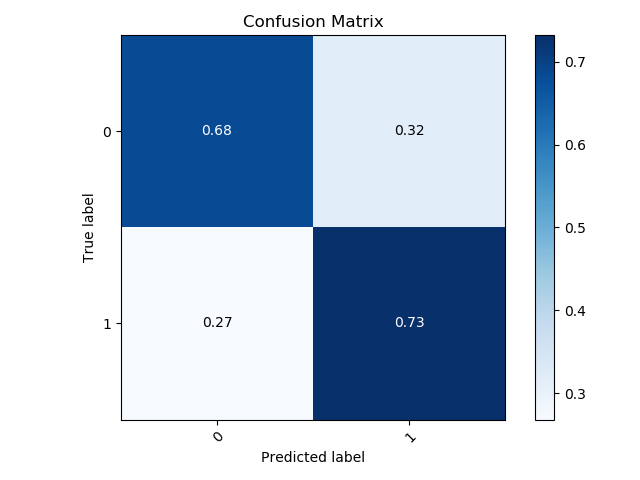
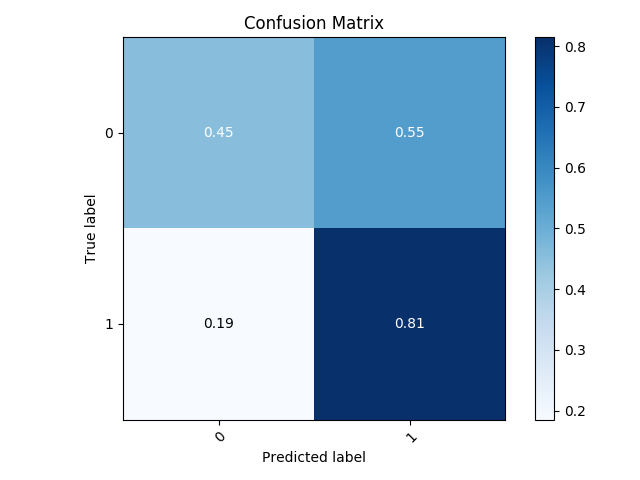
added SMOTE

diff --git a/code/classifier.py b/code/classifier.py
@@ -1,5 +1,6 @@
 print("Importing Modules...")
 
+from imblearn.over_sampling import SMOTE
 import pandas as pd
 # import csv
 import numpy as np
@@ -47,6 +48,8 @@ NoDeltas = ds.values[:,3:]
 y_NoDeltas = np.zeros(len(NoDeltas[:,0]),'i')
 NoDeltas = np.column_stack((NoDeltas,y_NoDeltas))
 
+
+
 print("Shuffling Data")
 np.random.shuffle(Deltas)
 np.random.shuffle(NoDeltas)
@@ -55,6 +58,9 @@ np.random.shuffle(NoDeltas)
 
 trainDeltas, testDeltas = Deltas[:int(len(Deltas) * .8),:], Deltas[int(len(Deltas) * .8):,:]
 trainNoDeltas, testNoDeltas = NoDeltas[:int(len(NoDeltas) * .8),:], NoDeltas[int(len(NoDeltas) * .8):,:]
+
+train_data_sm = np.concatenate((trainDeltas,trainNoDeltas), axis=0)
+test_data_sm = np.concatenate((testDeltas,testNoDeltas), axis=0)
 
 print("Duplicating Deltas")
 
@@ -81,7 +87,13 @@ x_train = train_data[:,:-1]
 y_train = train_data[:,-1]
 y_train = y_train.astype('int')
 
+x_train_sm = train_data_sm[:,:-1]
+y_train_sm = train_data_sm[:,-1]
+y_train_sm = y_train_sm.astype('int')
+
 print("X Train, Y Train: ", x_train.shape, y_train.shape)
+print("X Train SM, Y Train SM: ", x_train_sm.shape, y_train_sm.shape)
+
 
 x_testDeltas = testDeltas[:,:-1]
 y_testDeltas = testDeltas[:,-1]
@@ -100,6 +112,11 @@ y_testNoDeltas = y_testNoDeltas.astype('int')
 print("Deltas, NoDeltas = ", len(y_testDeltas), len(y_testNoDeltas))
 print("Deltas, NoDeltas = ", Deltas.shape, NoDeltas.shape)
 
+sm = SMOTE()
+x_res, y_res = sm.fit_resample(x_train_sm, y_train_sm)
+
+
+print("SM Deltas, SM NoDeltas = ", len(np.where(y_res == 1)[0]), len(np.where(y_res == 0)[0]))
 
 #This makes it so the test data only contains data with deltas
 #test_data = grab('1', test_data)
@@ -142,6 +159,13 @@ clf_RF = RandomForestClassifier(bootstrap=True, class_weight=None, criterion='en
             min_weight_fraction_leaf=0.0, n_estimators=1000, n_jobs=None,
             oob_score=False, random_state=0, verbose=0, warm_start=False)
 
+clf_RF_SM = RandomForestClassifier(bootstrap=True, class_weight=None, criterion='entropy',
+            max_depth=80, max_features=3, max_leaf_nodes=None,
+            min_impurity_decrease=0.0, min_impurity_split=None,
+            min_samples_leaf=3, min_samples_split=12,
+            min_weight_fraction_leaf=0.0, n_estimators=1000, n_jobs=None,
+            oob_score=False, random_state=0, verbose=0, warm_start=False)
+
 # param_grid = {
 #     'bootstrap': [True],
 #     'max_depth': [80, 90, 100, 110],
@@ -168,8 +192,15 @@ clf_RF = RandomForestClassifier(bootstrap=True, class_weight=None, criterion='en
 # clf_MNB = MultinomialNB(alpha=1.0, class_prior=None, fit_prior=True)
 
 #Training the Classifiers
-x_train = np.asarray(x_train)
-clf_RF = clf_RF.fit(x_train,y_train)
+
+#Training without SMOTE
+# x_train = np.asarray(x_train)
+# clf_RF = clf_RF.fit(x_train,y_train)
+
+#Training with SMOTE
+clf_RF = clf_RF.fit(x_res,y_res)
+
+
 # clf_tree = clf_tree.fit(x_train,y_train)
 # clf_MNB = clf_MNB.fit(x_train,y_train)
 
@@ -185,8 +216,6 @@ print("Checking for Accuracy")
 # print(f"Accuracy score for Naive Bayes Classifier is: {accuracy_score(y_test, y_predict)}")
 
 
-
-
 y_predictNoDeltas = clf_RF.predict(x_testNoDeltas)
 y_predictDeltas = clf_RF.predict(x_testDeltas)
 
@@ -195,7 +224,6 @@ print(f"Accuracy score for Random Forest Classifier No Delta is: {accuracy_score
 
 y_test = np.concatenate([y_testDeltas,y_testNoDeltas])
 y_pred = np.concatenate([y_predictDeltas,y_predictNoDeltas])
-
 
 # plotConfusionMatrix(y_test, y_pred, title='Confusion Matrix')
 plotConfusionMatrix(y_test, y_pred, title='Confusion Matrix', normalize=True)

diff --git a/code/FilterData.py b/code/FilterData.py
@@ -2,7 +2,7 @@ import csv
 
 #Slims down file that's below into only useful stuff
 input_file = "/home/shared/CMV/01 - RawData/01 - RawData/2019-02-11 - Extracted Reddit Data - Comments - MetaData.csv"
-lines_to_read = 10000
+lines_to_read = -1
 with open(input_file, mode='r', encoding="utf-8") as csv_file:
     file = open("Slimmed_Comments_MetaData", mode='w', encoding="utf-8")
     writer = csv.writer(file, dialect='excel', delimiter=',')
@@ -29,7 +29,7 @@ Replacements = [["&nbsp;", " "], ["&iexcl;", "¡"], ["&cent;", "¢"], ["&pound;"
 
 #Slims down file that's below into only useful stuff
 input_file = "/home/shared/CMV/RawData/2019-02-11 - Extracted Reddit Data - Comments - TextData.csv"
-lines_to_read = 10000
+lines_to_read = -1
 with open(input_file, mode='r', encoding="utf-8") as csv_file:
     file = open("/home/shared/CMV/Slimmed_Comments_TextData", mode='w', encoding="utf-8")
     writer = csv.writer(file, dialect='excel', delimiter=',')
@@ -56,7 +56,7 @@ with open(input_file, mode='r', encoding="utf-8") as csv_file:
 
 #Slims down file that's below into only useful stuff
 input_file = "/home/shared/CMV/RawData/2019-02-11 - Extracted Reddit Data - Submissions - MetaData.csv"
-lines_to_read = 10000
+lines_to_read = -1
 with open(input_file, mode='r', encoding="utf-8") as csv_file:
     file = open("/home/shared/CMV/Slimmed_Submissions_MetaData", mode='w', encoding="utf-8")
     writer = csv.writer(file, dialect='excel', delimiter=',')
@@ -79,7 +79,7 @@ with open(input_file, mode='r', encoding="utf-8") as csv_file:
 
 #Slims down file that's below into only useful stuff
 input_file = "/home/shared/CMV/RawData/2019-02-11 - Extracted Reddit Data - Submissions - TextData.csv"
-lines_to_read = 10000
+lines_to_read = -1
 with open(input_file, mode='r', encoding="utf-8") as csv_file:
     file = open("/home/shared/CMV/Slimmed_Submissions_TextData", mode='w', encoding="utf-8")
     writer = csv.writer(file, dialect='excel', delimiter=',')

diff --git a/code/counts.py b/code/counts.py
@@ -3,7 +3,7 @@ import csv
 comments_metadata_dict = {}
 
 input_file = "/home/shared/CMV/Slimmed_Comments_MetaData.csv"
-lines_to_read = 10000
+lines_to_read = -1
 with open(input_file, mode='r', encoding="utf-8") as csv_file:
     csv_reader = csv.DictReader(csv_file)
     line_count = 0
@@ -26,7 +26,7 @@ print("Done with Comment MetaData")
 
 link_author_dict = {}
 input_file = "/home/shared/CMV/Slimmed_Submissions_MetaData.csv"
-lines_to_read = 10000
+lines_to_read = -1
 with open(input_file, mode='r', encoding="utf-8") as csv_file:
     csv_reader = csv.DictReader(csv_file)
     line_count = 0
@@ -44,7 +44,7 @@ lost_child_count = 0
 justified_comments_awarded_deltas = []
 unjustified_comments_awarded_deltas = []
 input_file = "/home/shared/CMV/Slimmed_Comments_TextData.csv"
-lines_to_read = 10000
+lines_to_read = -1
 with open(input_file, mode='r', encoding="utf-8") as csv_file:
     csv_reader = csv.DictReader(csv_file)
     line_count = 0

diff --git a/code/common_words.py b/code/common_words.py
@@ -4,7 +4,7 @@ from lib import *
 import csv
 
 num_of_words = 500
-lines_to_read = 10000
+lines_to_read = -1
 input_file = "/home/shared/CMV/delta_comments.csv"
 
 # no_delta_words_file = open("../no_delta_words.txt", mode='w', encoding="utf-8")
